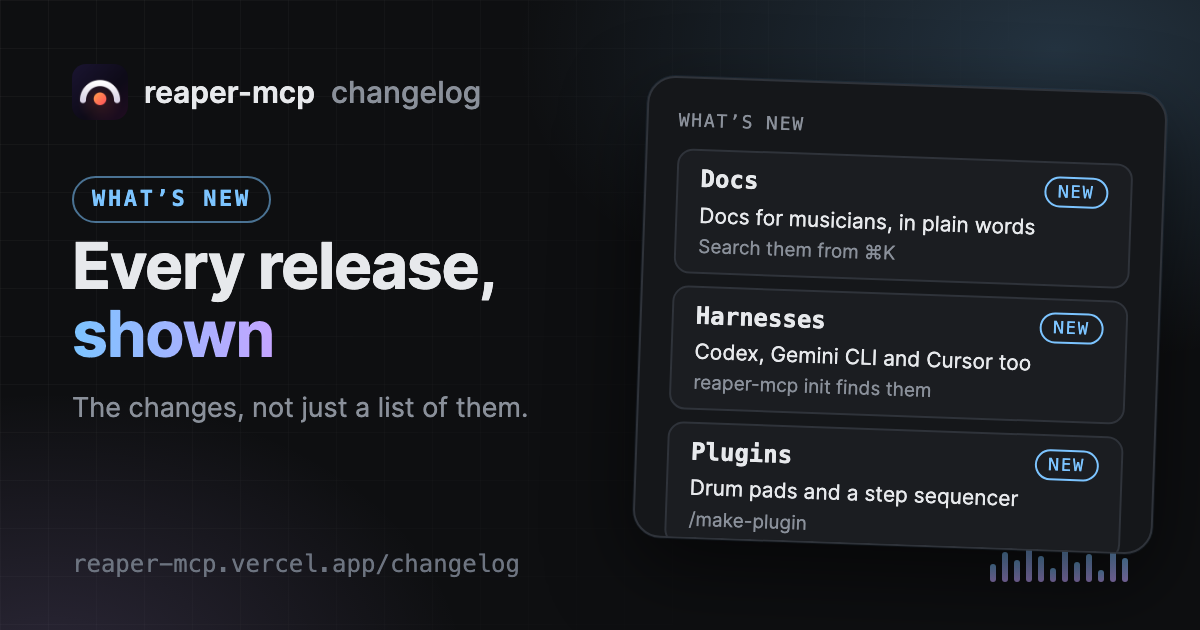
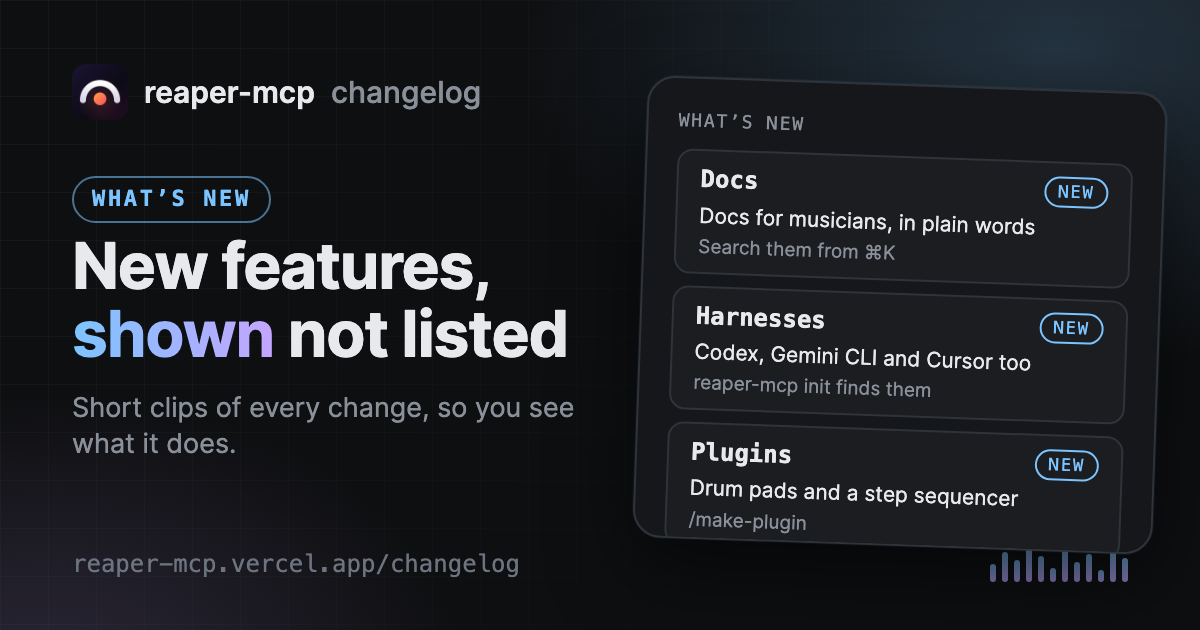
feat: clearer, value-led copy on the share pictures

Changed region(s): [[0.0617, 0.3619, 0.4933, 0.573], [0.0617, 0.6333, 0.4933, 0.6635], [0.0617, 0.6937, 0.2158, 0.7238]]

diff --git a/apps/bridge-ui/src/lib/share-meta.ts b/apps/bridge-ui/src/lib/share-meta.ts
@@ -8,20 +8,20 @@ export type SharePage = 'bridge' | 'docs' | 'changelog';
 
 export const SHARE: Record<SharePage, { title: string; description: string; image: string; path: string }> = {
   bridge: {
-    title: 'reaper-mcp: see what your AI assistant does in REAPER',
-    description: 'A live demo of the status window: every move the assistant makes in a REAPER session, with before and after.',
+    title: 'reaper-mcp: watch your AI mix, step by step',
+    description: 'Try the live demo: every change an AI assistant makes in a REAPER session, with before and after, so you can trust it and undo it.',
     image: 'share/og-bridge.png',
     path: '/',
   },
   docs: {
-    title: 'reaper-mcp docs: a music assistant inside REAPER',
-    description: 'Plain-language guides for musicians: install it, stay safe, and try it on your own mix. You make every call.',
+    title: 'reaper-mcp docs: skip the tedious parts of mixing',
+    description: 'An AI assistant inside REAPER that names, routes and gain-stages your tracks while you make music. Plain guides for musicians; you make every call.',
     image: 'share/og-docs.png',
     path: '/docs',
   },
   changelog: {
-    title: 'What’s new in reaper-mcp',
-    description: 'Every release, with the changes shown instead of listed.',
+    title: 'What’s new in reaper-mcp: new features, shown',
+    description: 'Short clips and pictures of every change, so you can see what a release does for your sessions before you update.',
     image: 'share/og-changelog.png',
     path: '/changelog',
   },
